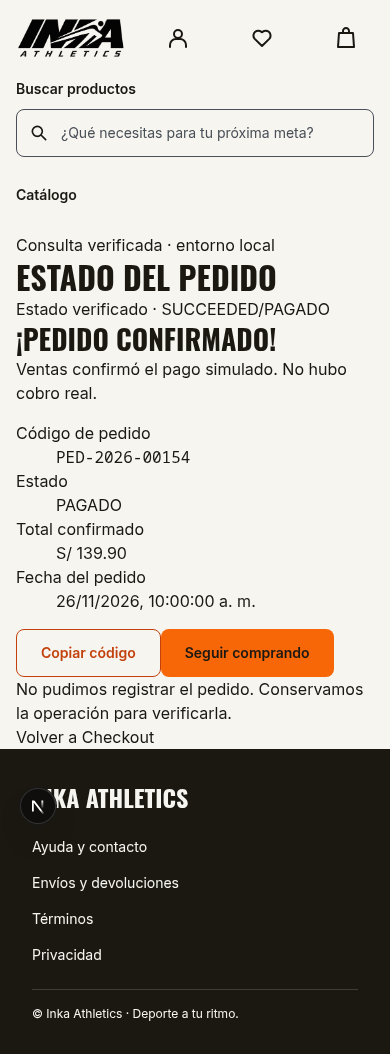
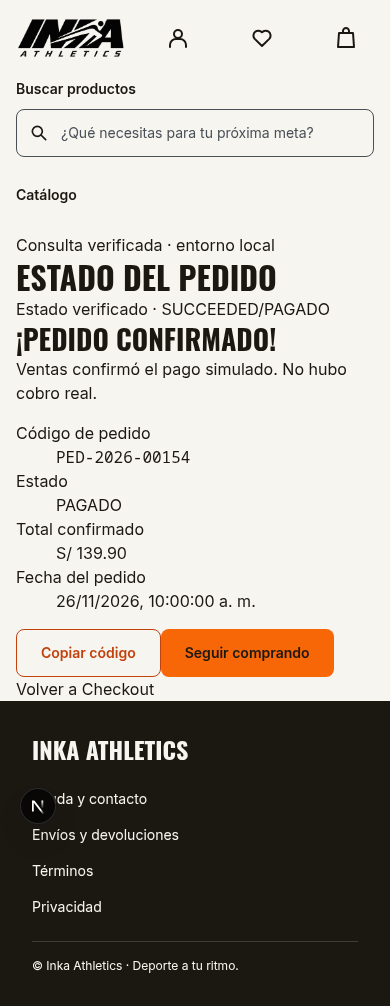
fix(checkout): retirar el error después de verificar el pedido

diff --git a/tests/checkout.spec.ts b/tests/checkout.spec.ts
@@ -85,6 +85,7 @@ for (const { name, width, height } of checkoutViewports) {
     await page.getByRole("button", { name: "Reintentar verificación" }).click();
     await expect(paid).toBeVisible();
     await expect(page.getByText("Estado verificado · SUCCEEDED/PAGADO")).toBeVisible();
+    await expect(page.getByText("No pudimos registrar el pedido. Conservamos la operación para verificarla.", { exact: true })).toHaveCount(0);
     expect(requests).toEqual(expect.arrayContaining([
       { stage: 0, method: "GET" }, { stage: 1, method: "GET" }, { stage: 2, method: "GET" },
     ]));

diff --git a/src/features/checkout/OrderConfirmationLookup.tsx b/src/features/checkout/OrderConfirmationLookup.tsx
@@ -24,6 +24,7 @@ export function OrderConfirmationLookup({ orderId, operationId }: { orderId: str
         setMessage("No pudimos verificar este pedido para la operación indicada.");
         return;
       }
+      setMessage("");
       setOperation(result);
       if (isVerifiedPaidOperation(result) && result.orderId === orderId) {
         setState("paid");

diff --git a/docs/evidencias/H5/UX-014-checkout/README.md b/docs/evidencias/H5/UX-014-checkout/README.md
@@ -1,6 +1,6 @@
 # QA de estados de checkout · FE #154
 
-Chrome local sobre la base de Frontend `bcbdf55`. Escritorio a 1280 × 900 y móvil a 390 × 844. Pasaron cuatro pruebas de fixtures y dos de recuperación. Las capturas usan datos sintéticos y el proveedor de la verificación se simula con respuestas interceptadas.
+Chrome 158 local sobre la base de Frontend `bcbdf55`. Escritorio a 1280 × 900 y móvil a 390 × 844. Pasaron cuatro pruebas de fixtures y dos de recuperación. Las capturas usan datos sintéticos y el proveedor de la verificación se simula con respuestas interceptadas.
 
 | Escenario | Escritorio | Móvil |
 | --- | --- | --- |
@@ -21,6 +21,6 @@ npm run test:checkout:e2e -- -g 'checkout local fixtures|address form|address an
 NEXT_PUBLIC_CHECKOUT_MODE=backend-mock npm run test:checkout:e2e -- -g 'checkout verification recovers'
 ```
 
-La verificación simulada ejecuta tres etapas de lectura: `202 SUBMITTED/CREADO`, `503 SALES_UNAVAILABLE` y `200 SUCCEEDED/PAGADO`. Las pruebas comprueban que solo se consulta por GET, que el estado pagado aparece después de la respuesta final y que el error permite reintentar.
+La verificación simulada ejecuta tres etapas de lectura: `202 SUBMITTED/CREADO`, `503 SALES_UNAVAILABLE` y `200 SUCCEEDED/PAGADO`. Las pruebas comprueban que solo se consulta por GET, que el estado pagado aparece después de la respuesta final y que el error permite reintentar. Una vez confirmado el pago, la interfaz retira el aviso del intento anterior.
 
 La prueba documenta los estados locales de V-011 a V-014. La validación del checkout con proveedores desplegados sigue en las tareas de integración.
